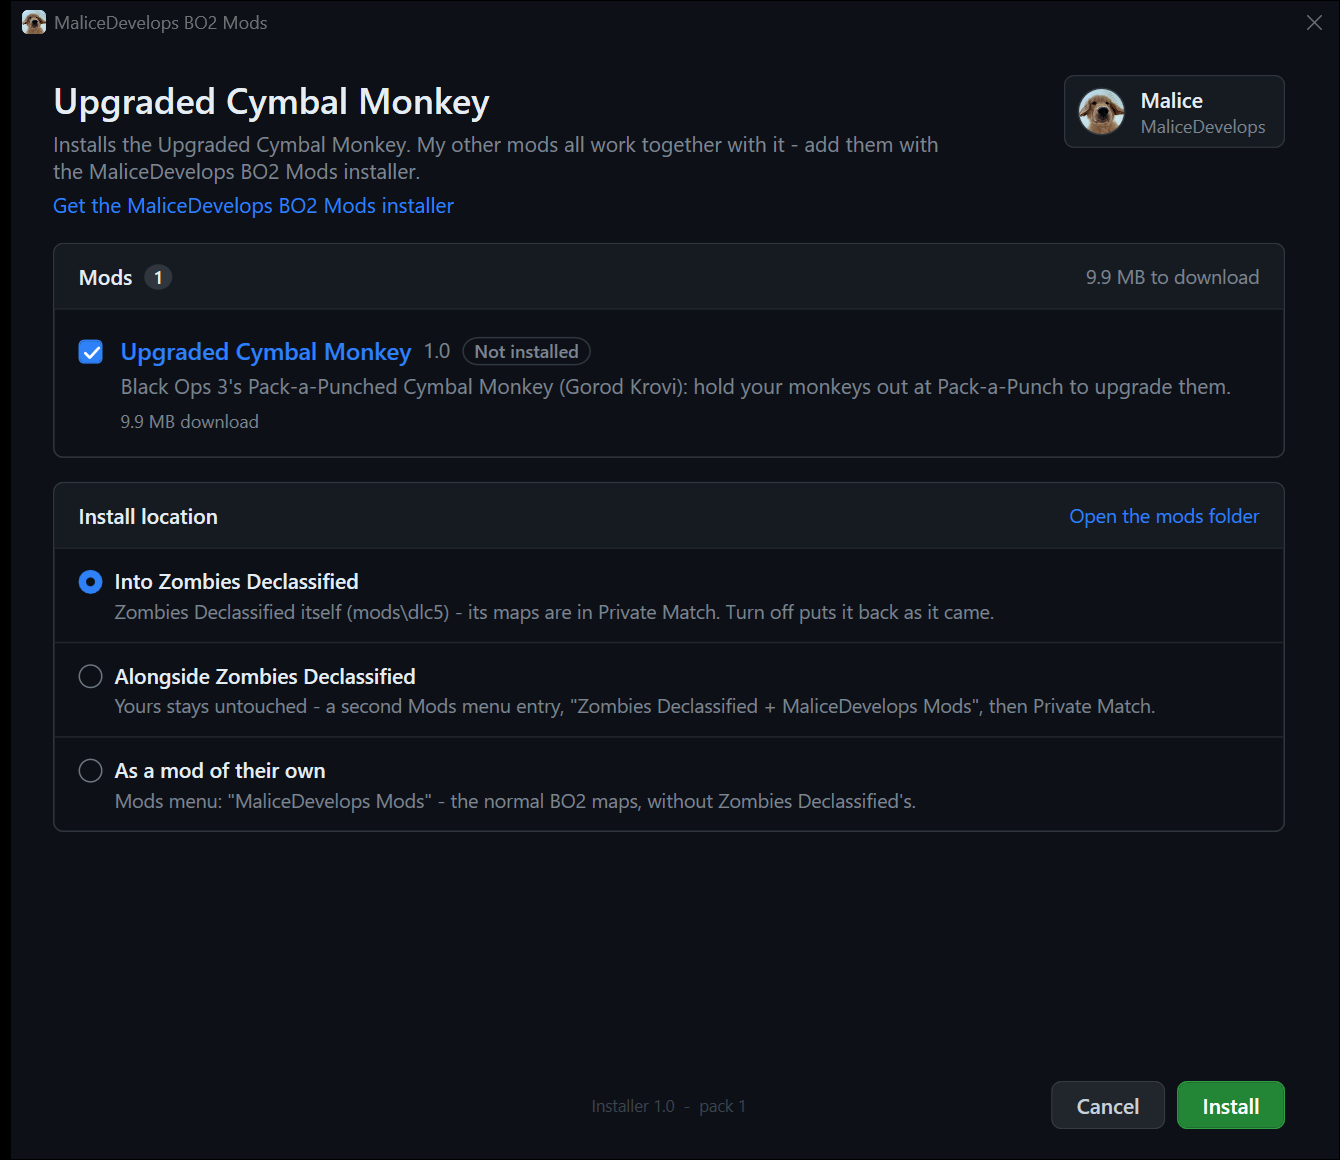
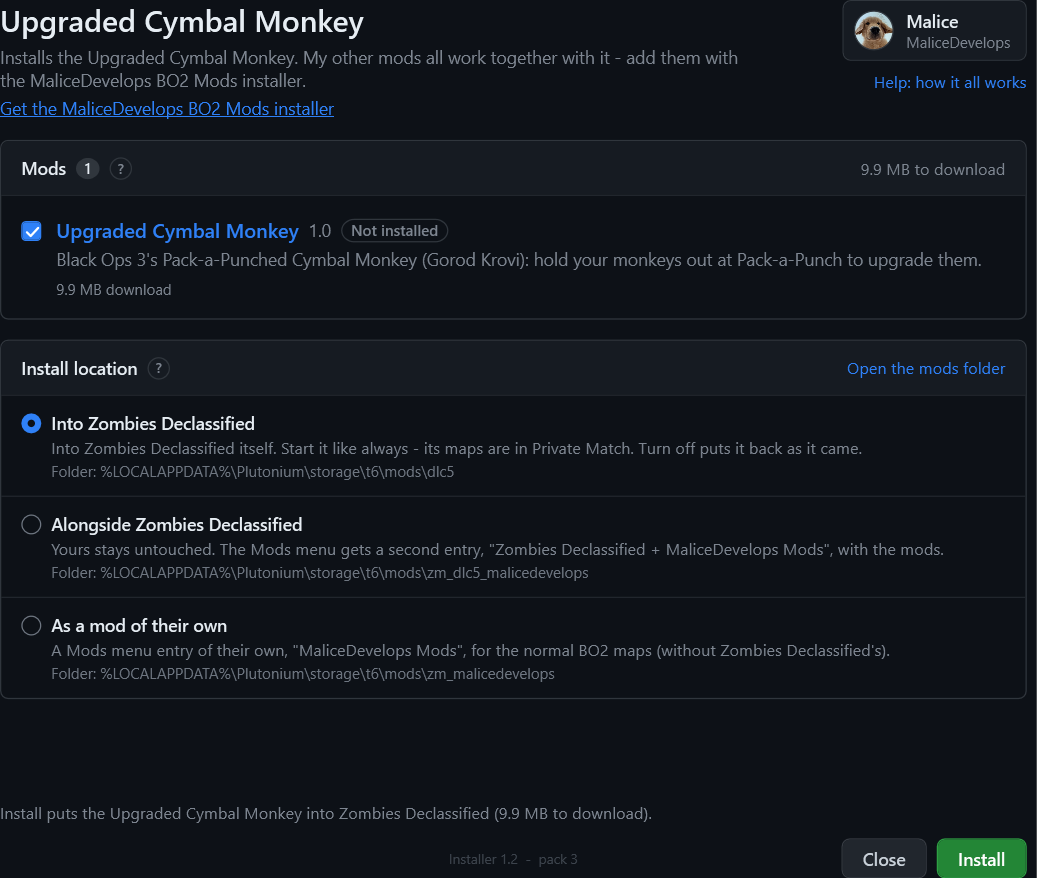
README: the installer's new window

diff --git a/README.md b/README.md
@@ -32,6 +32,8 @@ This download installs only the Upgraded Cymbal Monkey. Its window:
 
 <img src="images/installer-window.png" width="620" alt="The Upgraded Cymbal Monkey's installer window">
 
+Everything happens in that window: it shows the progress, says where the mod is and how to play it, and explains every part - hover over anything, or press **Help**.
+
 The installer stays on your PC: a **MaliceDevelops BO2 Mods** shortcut on your desktop and in the Start menu opens it again, so you don't need to keep the zip.
 
 Install.bat needs Windows 10 or 11 and an internet connection. To install by hand instead, follow `README.txt` in the download.
